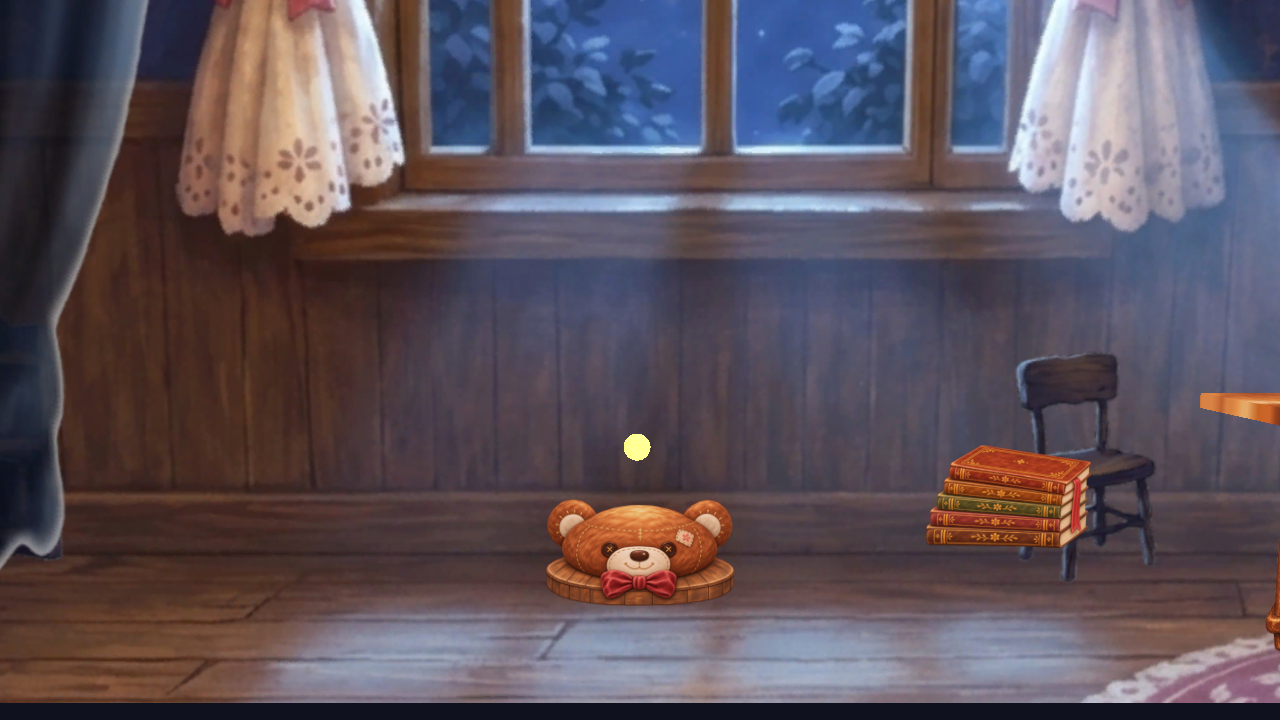
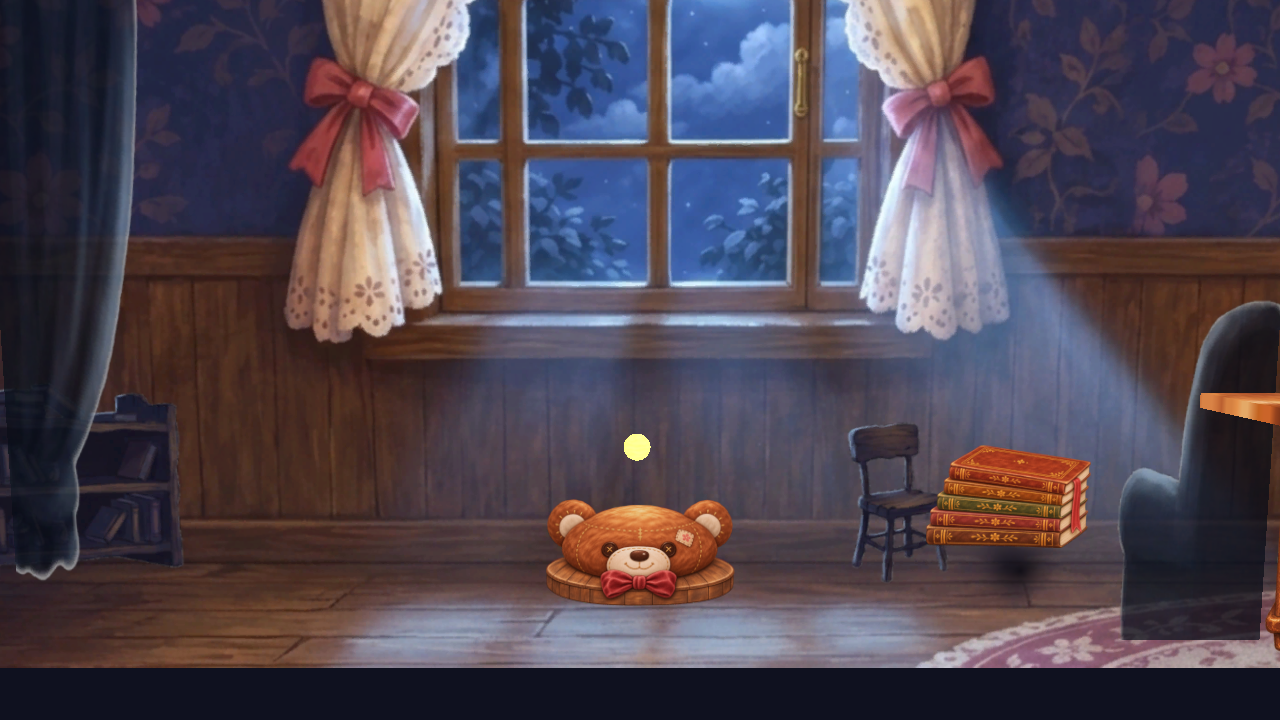
Ajusta escala do quarto e adiciona sombras de contato na T05.4
- Quarto a 0,70: rodape 2,77 m, janela 4,64 m; livros passam a 37% da janela.

- Primeiro plano preso a tela a 13,33 m para enquadrar sem depender do mundo.

- ContactShadowT054 procedural: mancha larga e nucleo sob cada plataforma, deslocados no sentido da luz.

diff --git a/Assets/Art/Illustrated25D/Environment/Room/RoomBackgroundT054.cs b/Assets/Art/Illustrated25D/Environment/Room/RoomBackgroundT054.cs
@@ -35,7 +35,8 @@ namespace YunaLegend.Illustrated25D.Environment
         [SerializeField] private SpriteRenderer near;
         [SerializeField] private float floorWorldY;
         [SerializeField] private float centreWorldX;
-        [SerializeField] private float scale = 1f;
+        [SerializeField] private float roomScale = 1f;
+        [SerializeField] private float nearScale = 1f;
 
         public SpriteRenderer Far => far;
         public SpriteRenderer Mid => mid;
